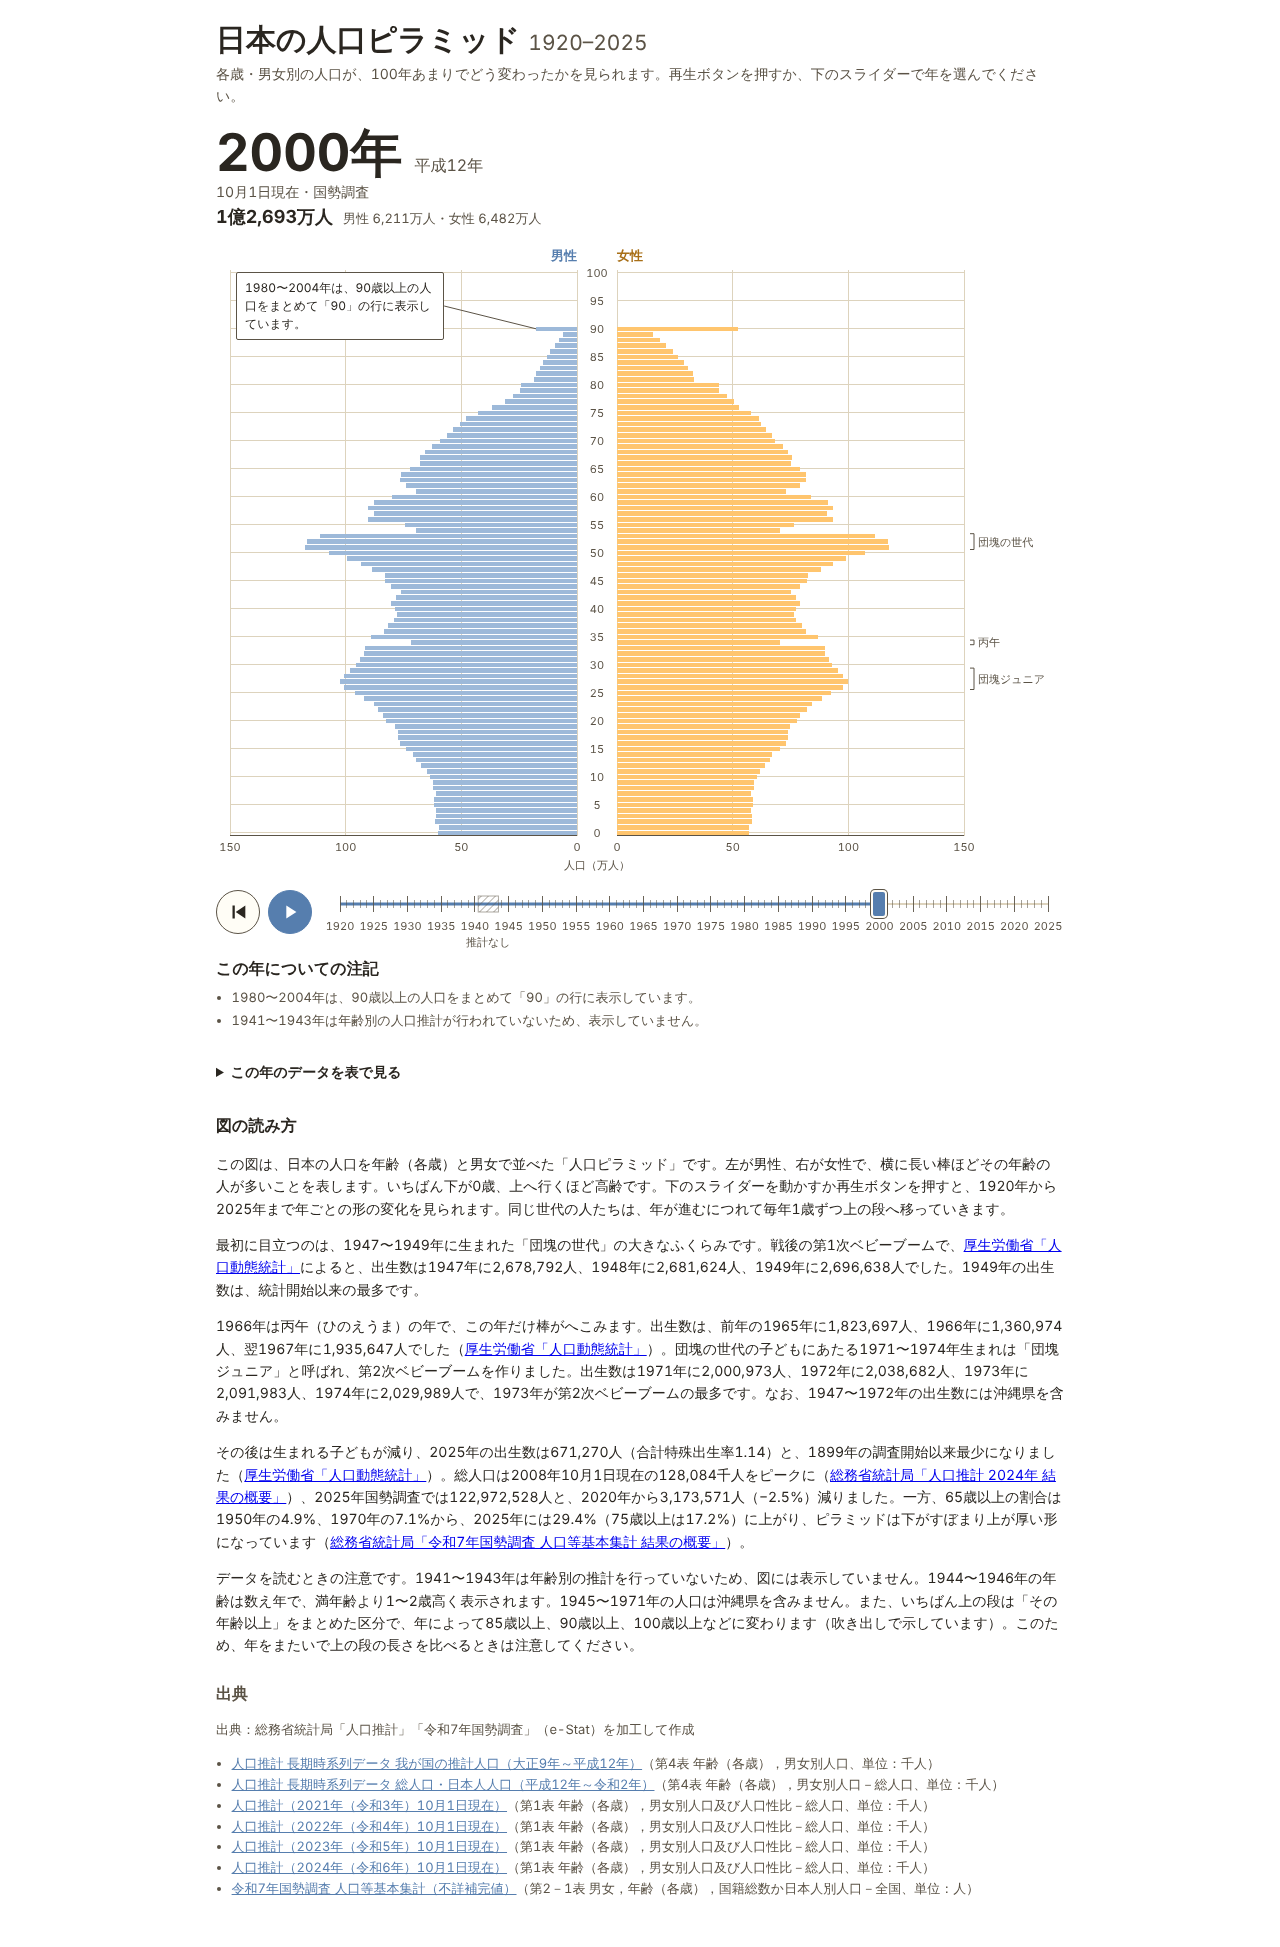
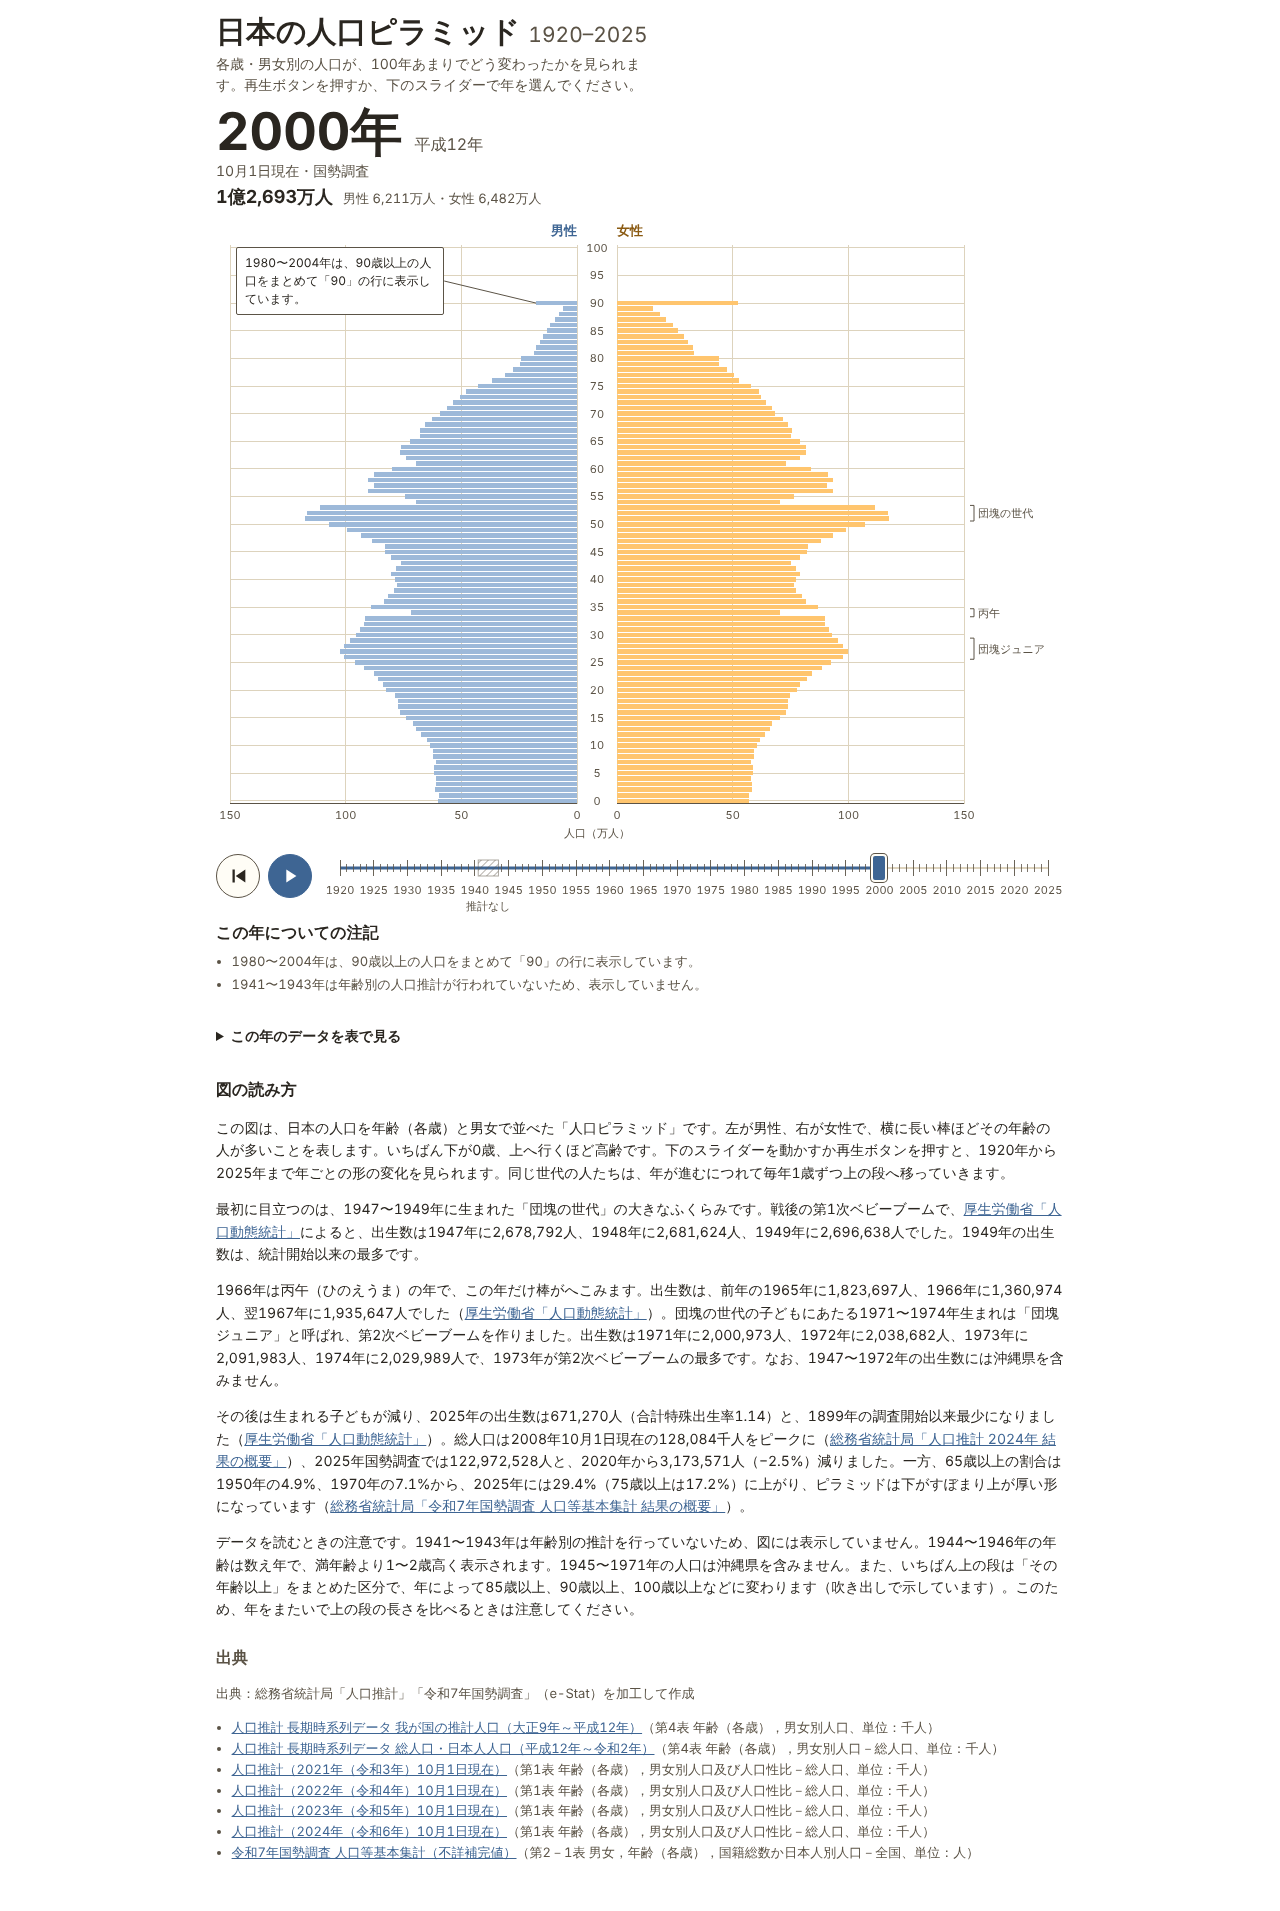
公開前審査の画面側指摘を修正
- 図と操作部が1画面に収まるよう行の高さを画面高さから算出
- 強調色・リンク・再生ボタンを #3e6593 / #8a5a12 に変更しコントラスト4.5:1を確保
- 解説内リンク色、スライダー目盛りの濃さを調整
- スマホでバッジ行の高さを常に確保し上下の跳ねを解消
- 再生中は年表示の aria-live を off に
- PageUp/PageDown を±10年に
- 冒頭文の折り返し、丙午の括弧の最小高さを修正
- スクリーンショットを撮り直し

Claude-Session: https://claude.ai/code/session_01PEzRMk3itmbneTSnLhfQa4

diff --git a/css/style.css b/css/style.css
@@ -5,8 +5,8 @@
   --grid: #ddd3bd;
   --male: #9db9d9;
   --female: #ffc56e;
-  --male-strong: #567eae;
-  --female-strong: #a86f17;
+  --male-strong: #3e6593;
+  --female-strong: #8a5a12;
   --focus: #2a2620;
   color-scheme: light;
 }
@@ -24,17 +24,18 @@ body {
   background: var(--female-strong); color: #fff; text-align: center;
   font-size: 13px; font-weight: 700; padding: 4px 8px;
 }
-.site-header h1 { font-size: clamp(22px, 5vw, 30px); margin: 20px 0 4px; line-height: 1.3; }
+.site-header h1 { font-size: clamp(22px, 5vw, 30px); margin: 12px 0 2px; line-height: 1.3; }
 .site-header .range { color: var(--muted); font-weight: 400; font-size: 0.7em; white-space: nowrap; }
-.lede { margin: 0 0 16px; color: var(--muted); font-size: 14px; }
+.lede { margin: 0 0 8px; color: var(--muted); font-size: 14px; line-height: 1.5; text-wrap: balance; }
 h2 { font-size: 16px; margin: 0 0 6px; }
 
 /* 読み出し */
-.readout { margin-bottom: 4px; }
+.readout { margin-bottom: 0; }
 .year-row { display: flex; flex-wrap: wrap; align-items: baseline; gap: 4px 12px; }
 #year-display { font-size: clamp(36px, 10vw, 52px); font-weight: 700; line-height: 1.1; min-width: 4.2ch; }
 #wareki-display { font-size: 16px; color: var(--muted); }
-.badges { display: flex; flex-wrap: wrap; gap: 6px; }
+.badges { display: flex; flex-wrap: wrap; gap: 6px; min-height: 24px; }
+@media (max-width: 599px) { .badges { flex-basis: 100%; } }
 .badge {
   border: 1px solid var(--muted); color: var(--muted); border-radius: 999px;
   padding: 0 10px; font-size: 12px; line-height: 22px; background: rgba(255,255,255,.45);
@@ -45,7 +46,7 @@ h2 { font-size: 16px; margin: 0 0 6px; }
 .total-sexes { color: var(--muted); font-size: 13px; display: inline-block; }
 
 /* チャート */
-.chart-wrap { position: relative; width: 100%; max-width: 880px; margin: 8px 0 0; }
+.chart-wrap { position: relative; width: 100%; max-width: 880px; margin: 4px 0 0; }
 .chart { display: block; max-width: 100%; }
 .chart text { fill: var(--muted); font-size: 11px; font-family: inherit; font-variant-numeric: tabular-nums; }
 .grid-line { stroke: var(--grid); stroke-width: 1; shape-rendering: crispEdges; }
@@ -94,7 +95,7 @@ h2 { font-size: 16px; margin: 0 0 6px; }
 }
 
 /* 操作 */
-.controls { display: flex; flex-wrap: wrap; align-items: flex-start; gap: 8px 12px; margin-top: 8px; }
+.controls { display: flex; flex-wrap: wrap; align-items: flex-start; gap: 8px 12px; margin-top: 4px; }
 .buttons { display: flex; gap: 8px; }
 .btn {
   width: 44px; height: 44px; border-radius: 50%; border: 1px solid var(--muted);
@@ -113,7 +114,7 @@ button:focus-visible, input:focus-visible, summary:focus-visible, a:focus-visibl
 @media (max-width: 599px) { .timeline text { font-size: 10px; } }
 .tl-rail { stroke: var(--grid); stroke-width: 2; }
 .tl-progress { stroke: var(--male-strong); stroke-width: 3; }
-.tl-tick { stroke: var(--muted); stroke-opacity: .55; stroke-width: 1; shape-rendering: crispEdges; }
+.tl-tick { stroke: var(--muted); stroke-opacity: .8; stroke-width: 1; shape-rendering: crispEdges; }
 .tl-tick-major { stroke-opacity: .9; }
 .tl-gap { stroke: var(--muted); stroke-opacity: .5; stroke-width: 1; }
 .hatch-line { stroke: var(--muted); stroke-opacity: .6; stroke-width: 1.5; }
@@ -149,5 +150,5 @@ button:focus-visible, input:focus-visible, summary:focus-visible, a:focus-visibl
 #data-table thead th:first-child { text-align: left; }
 .sources { color: var(--muted); font-size: 13px; }
 .sources ul { padding-left: 1.2em; margin: 4px 0 0; }
-.sources a, .data-details a { color: var(--male-strong); overflow-wrap: anywhere; }
+.about a, .sources a, .data-details a { color: var(--male-strong); overflow-wrap: anywhere; }
 .sources li { overflow-wrap: anywhere; }

diff --git a/js/chart.js b/js/chart.js
@@ -64,6 +64,17 @@ export function createChart({ svg: svgEl, wrap, calloutHost, data, store }) {
   }
 
   // --- レイアウト ---
+  // 図の下端から、再生ボタンとスライダーの下端までの距離
+  function controlsExtent() {
+    const bottom = svgEl.getBoundingClientRect().bottom;
+    let ext = 0;
+    for (const id of ["btn-play", "year-slider"]) {
+      const el = document.getElementById(id);
+      if (el) ext = Math.max(ext, el.getBoundingClientRect().bottom - bottom);
+    }
+    return ext || 60;
+  }
+
   function computeLayout() {
     const avail = Math.min(MAX_WIDTH, wrap.clientWidth || MAX_WIDTH);
     const narrow = avail < NARROW_BREAKPOINT;
@@ -74,7 +85,13 @@ export function createChart({ svg: svgEl, wrap, calloutHost, data, store }) {
     layout.margin.right = narrow ? 46 : 100;
     layout.margin.top = 30;
     layout.margin.bottom = 46;
-    layout.rowHeight = narrow ? 4.6 : 5.6;
+    const fixedH = layout.margin.top + layout.margin.bottom;
+    const maxRow = narrow ? 4.6 : 5.6, minRow = narrow ? 3 : 3.6;
+    // 図と操作部が初期表示の1画面に収まる行の高さ（余白・操作部の高さは実測）
+    const svgTop = svgEl.getBoundingClientRect().top + window.scrollY;
+    const chartBottomToControls = controlsExtent();
+    const room = window.innerHeight - svgTop - fixedH - chartBottomToControls - 2;
+    layout.rowHeight = Math.max(minRow, Math.min(maxRow, Math.floor((room / NB) * 100) / 100));
     layout.halfWidth = (avail - layout.margin.left - layout.margin.right - layout.ageWidth) / 2;
     layout.xMale = layout.margin.left + layout.halfWidth;
     layout.xFemale = layout.xMale + layout.ageWidth;
@@ -197,7 +214,8 @@ export function createChart({ svg: svgEl, wrap, calloutHost, data, store }) {
     const x = layout.xFemale + layout.halfWidth + 6;
     const mid = (c.top + c.bottom) / 2;
     const k = 4;
-    c.path.setAttribute("d", `M${x},${c.top + 0.5} h${k} V${c.bottom - 0.5} h${-k}`);
+    const h = Math.max(c.bottom - c.top - 1, 8); // 1歳分でも括弧が潰れないよう最低8px
+    c.path.setAttribute("d", `M${x},${mid - h / 2} h${k} V${mid + h / 2} h${-k}`);
     c.text.setAttribute("x", x + k + 4);
     c.text.setAttribute("y", mid);
   }
@@ -323,10 +341,18 @@ export function createChart({ svg: svgEl, wrap, calloutHost, data, store }) {
     const w = Math.min(MAX_WIDTH, wrap.clientWidth || MAX_WIDTH);
     if (w !== layout.width) relayout();
   }).observe(wrap);
+  // 画面の高さや上部の表示が変わったとき、行の高さだけを測り直す
+  function refit() {
+    const before = layout.rowHeight;
+    computeLayout();
+    if (layout.rowHeight !== before) relayout();
+  }
+  window.addEventListener("resize", refit);
 
   return {
     layout,
     hover,
+    refit,
     showYear(year, { animate = true } = {}) {
       const st = store.getState();
       const duration = st.reducedMotion ? 0 : st.playing ? ANIM.playBarMs : ANIM.barMs;

diff --git a/js/timeline.js b/js/timeline.js
@@ -63,7 +63,17 @@ export function createTimeline({ root, svgEl, slider, data, store }) {
   let lastRaw = store.getState().year; // 直前のスライダー生値（gap解決前）
   let inInput = false;
   // キー操作は現在値（解決後）からの±1なので、基準も現在値に合わせる
-  slider.addEventListener("keydown", () => { lastRaw = store.getState().year; });
+  slider.addEventListener("keydown", (e) => {
+    lastRaw = store.getState().year;
+    if (e.key === "PageUp" || e.key === "PageDown") {
+      // 既定の移動量は範囲の10%（約10.5年）なので、±10年に置き換える
+      e.preventDefault();
+      const dir = e.key === "PageUp" ? 1 : -1;
+      store.pause();
+      store.setYear(store.getState().year + dir * 10, { direction: dir });
+      sync();
+    }
+  });
   slider.addEventListener("input", () => {
     store.pause();
     const v = Number(slider.value);

diff --git a/js/ui.js b/js/ui.js
@@ -165,12 +165,14 @@ export function createTooltip({ data, store, chart, wrap }) {
 export function createControls({ store }) {
   const play = $("btn-play");
   const rewind = $("btn-rewind");
+  const yearEl = $("year-display");
   const ICON_PLAY = '<svg viewBox="0 0 24 24" aria-hidden="true"><path d="M8 5v14l11-7z"/></svg>';
   const ICON_PAUSE = '<svg viewBox="0 0 24 24" aria-hidden="true"><path d="M7 5h4v14H7zM13 5h4v14h-4z"/></svg>';
   function render() {
     const p = store.getState().playing;
     play.setAttribute("aria-label", p ? "一時停止" : "再生");
     play.innerHTML = p ? ICON_PAUSE : ICON_PLAY;
+    yearEl.setAttribute("aria-live", p ? "off" : "polite");
   }
   play.addEventListener("click", () => (store.getState().playing ? store.pause() : store.play()));
   rewind.addEventListener("click", () => {

diff --git a/js/main.js b/js/main.js
@@ -47,6 +47,10 @@ async function main() {
   chart.showYear(store.getState().year, { animate: false });
   store.subscribe((_s, c) => { if (c.type === "year") chart.showYear(store.getState().year); });
 
+  // 読み出しと操作部が配置されてから、1画面に収まる行の高さに合わせる
+  chart.refit();
+  document.fonts?.ready.then(() => chart.refit());
+
   window.__app = { store, data, layout: chart.layout };
   document.body.dataset.year = String(store.getState().year);
   document.body.dataset.ready = "true";

diff --git a/js/config.js b/js/config.js
@@ -2,8 +2,8 @@ export const COLORS = {
   bg: "#ffffff",
   male: "#9db9d9",
   female: "#ffc56e",
-  maleStrong: "#567eae",
-  femaleStrong: "#a86f17",
+  maleStrong: "#3e6593",
+  femaleStrong: "#8a5a12",
   grid: "#ddd3bd",
   muted: "#5b5346",
 };
